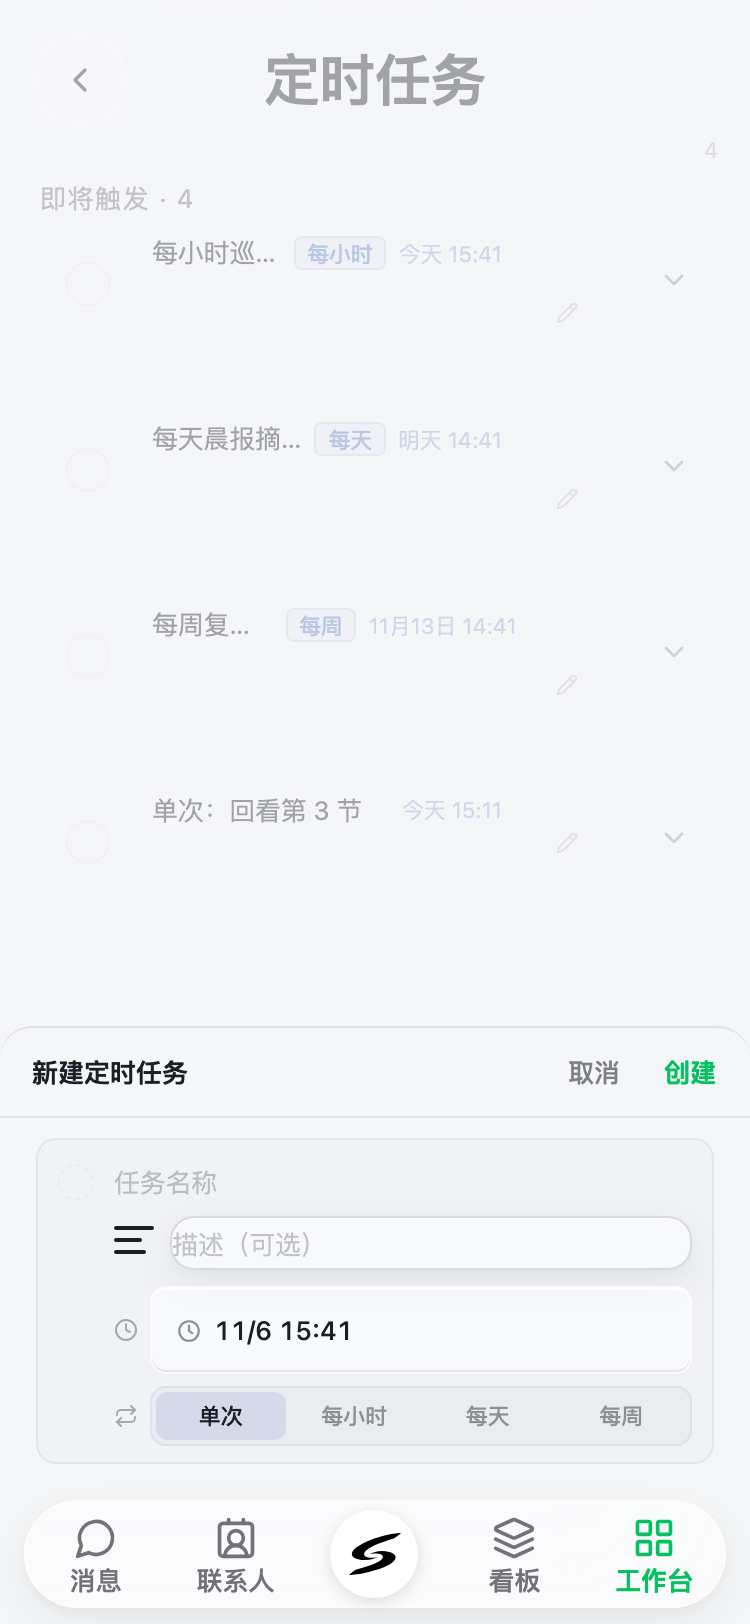
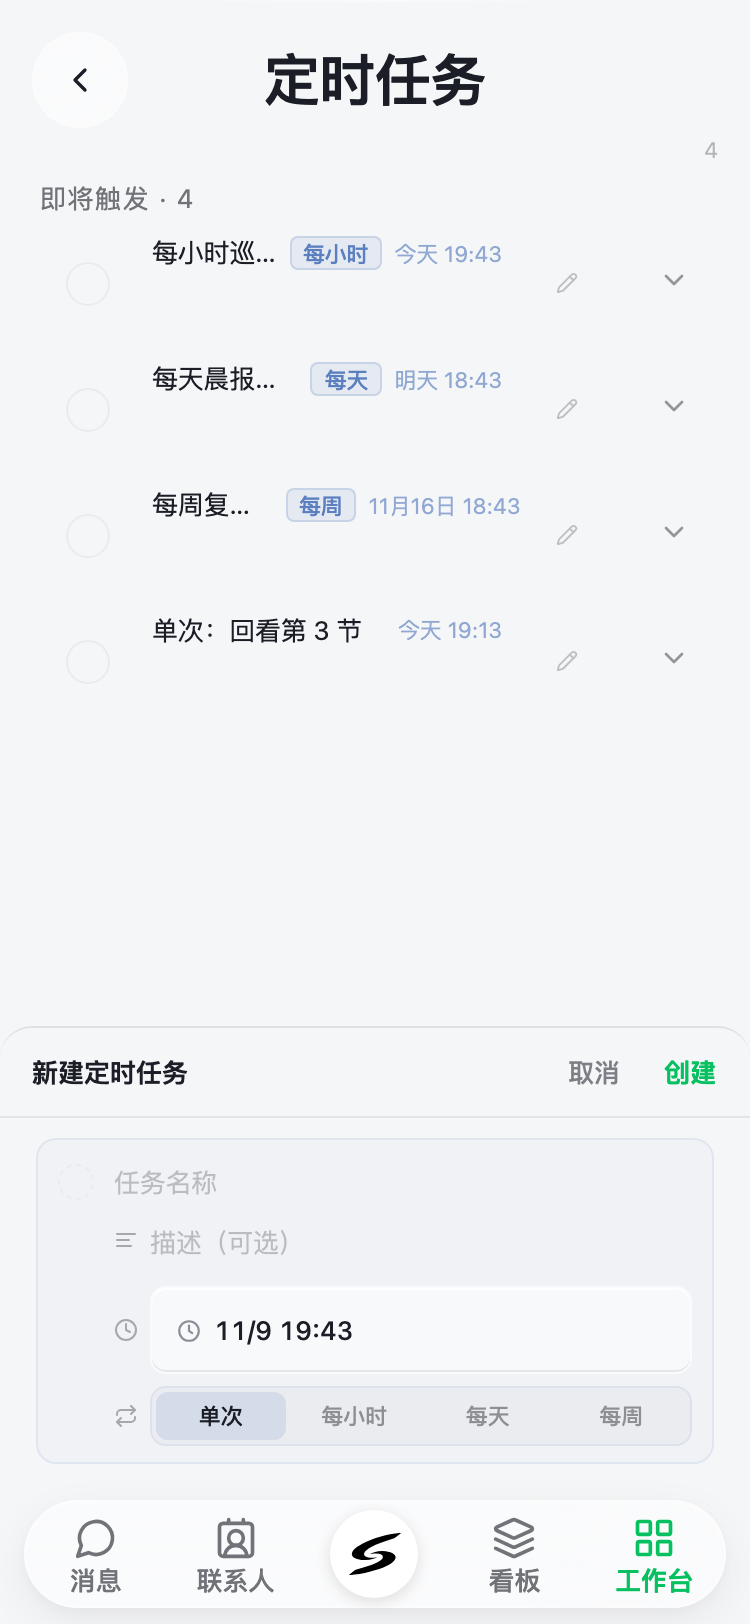
Fix mobile create scrim and schedule row sizing

diff --git a/src/main/resources/web/css/schedule-todo.css b/src/main/resources/web/css/schedule-todo.css
@@ -33,6 +33,14 @@
 .reminder-row {
   align-items: flex-start;
 }
+/* The detail clip collapses horizontally; constrain its closed state vertically too.
+   Otherwise its (visually clipped) facts still contribute their intrinsic height. */
+.reminder-row > .reminder-row-content > .lm-collapse-clip {
+  height: 0;
+}
+.reminder-row.is-expanded > .reminder-row-content > .lm-collapse-clip {
+  height: auto;
+}
 .reminder-row .reminder-circle {
   /* 名字基线对齐圆钮中心（行首内距 = 行内距，与两页既有读数同档）。 */
   margin-top: 2px;

diff --git a/src/main/resources/web/css/mobileLayer.css b/src/main/resources/web/css/mobileLayer.css
@@ -5522,7 +5522,9 @@ body.mobile-layer #reminder-panel .reminder-fab-add {
 .mf-drawer-scrim {
   position: absolute;
   inset: 0;
-  background: color-mix(in srgb, var(--color-bg) 62%, transparent);
+  /* Create drawers remain dismissible by tapping outside, but their backdrop must not
+     tint the page. Confirmation dialogs retain their independent scrim behavior. */
+  background: transparent;
 }
 .mf-drawer-box {
   position: relative;
